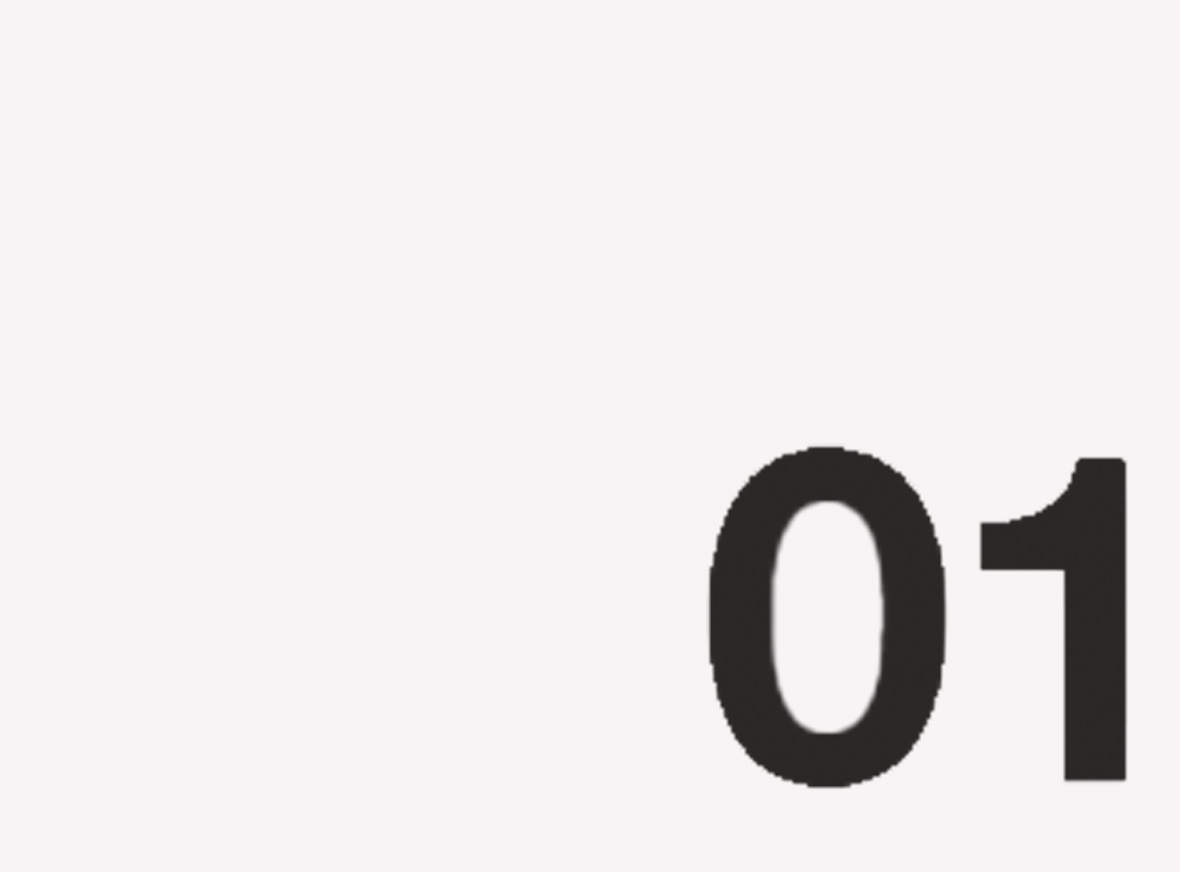
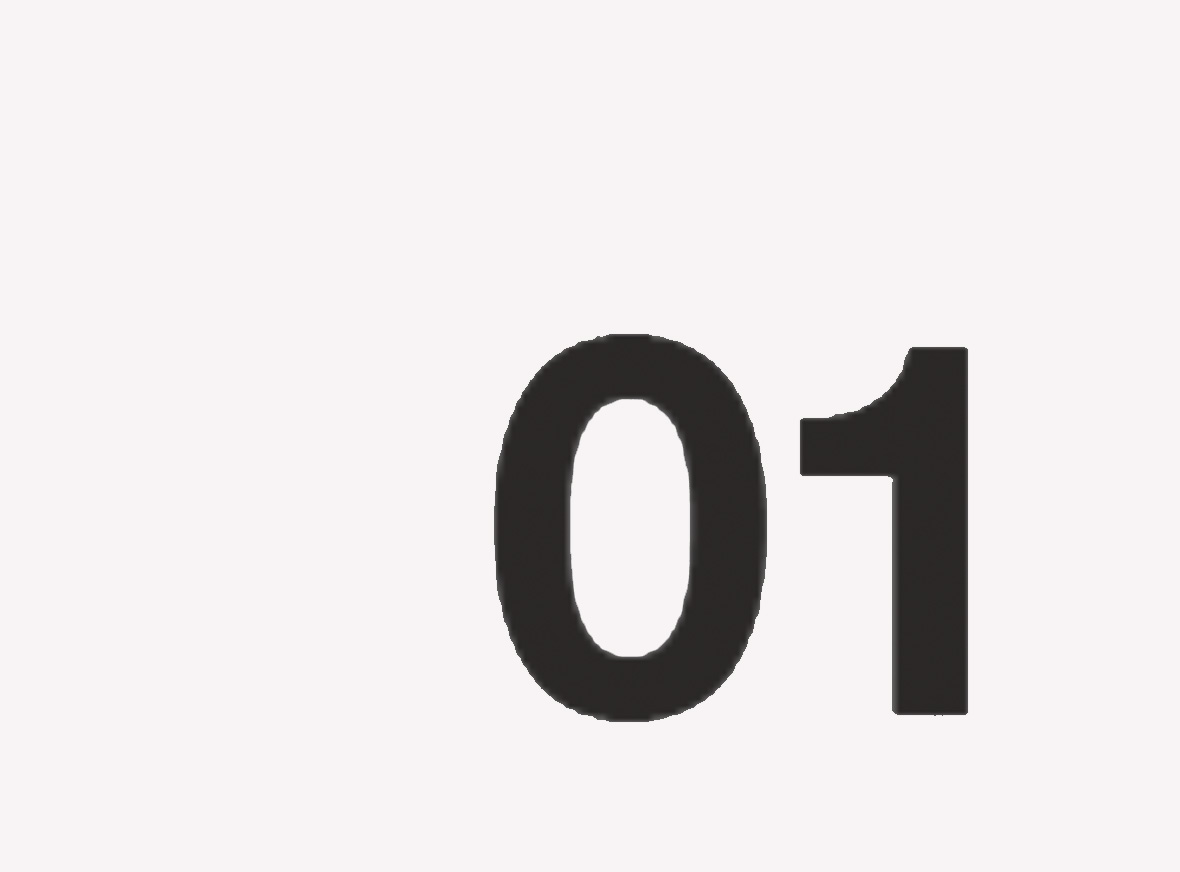
updates website thumbnail and naming of drum machine

Changed region(s): [[0.3966, 0.3716, 0.9763, 0.9289]]

diff --git a/moon/src/media/images/MainImagePlaylist.js b/moon/src/media/images/MainImagePlaylist.js
@@ -88,7 +88,7 @@ const ImagePlaylist = [
   {
     src: require("../images/dr01.png"),
     alt: "Alt text for false.png",
-    caption: "DR-01",
+    caption: "Online Drum Machine",
     highlight: `This is a 16-step, 8 voice programmable drum-machine. The link below takes you to the current version of the project.`,
     devIcons: ["javascript", "react", "CSS", "HTML5"],
     buttons: [
